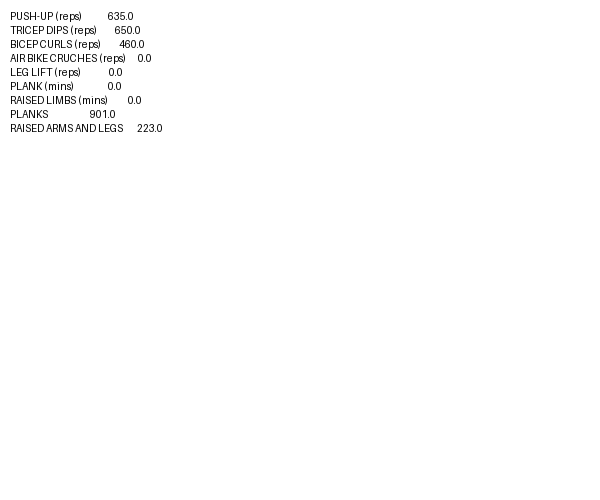
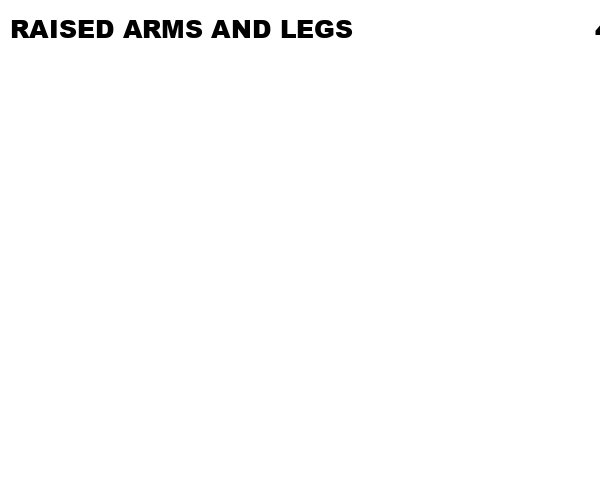
new commit_

diff --git a/zeal fitness club report generator/main/main_x.py b/zeal fitness club report generator/main/main_x.py
@@ -1,41 +1,42 @@
-from openpyxl import load_workbook
 from PIL import Image, ImageDraw, ImageFont
+import pandas as pd
 
-# Load the Excel workbook
-workbook = load_workbook('april.xlsx')
+xls = pd.ExcelFile('specimen.xlsx')
 
-# Select the active worksheet
-worksheet = workbook['Actually']
+df = xls.sheet_names
 
-# Load the font you want to use
-font = ImageFont.load_default()
+for i in range(len(df)):     
+    sheet = pd.read_excel(xls, sheet_name=df[i])  
+    
+    row = sheet.iloc[31, 4:].to_string(index=False)
+    col = sheet.columns
+    
+    # a = col[4:]
+    a = []
 
-# Create an empty image
-img = Image.new('RGB', (600, 500), color = (255, 255, 255))
+    c = zip(a.append(col[4:]), row)   
+    
+    # Load the font you want to use
+    font = ImageFont.truetype('arial.ttf', 25)
 
-# Initialize ImageDraw object
-draw = ImageDraw.Draw(img)
+    # Create an empty image
+    img = Image.new('RGB', (600, 500), color = (255, 255, 255))
 
-# Set initial position for text drawing
-x = 10
-y = 10
+    # Initialize ImageDraw object
+    # draw = ImageDraw.Draw(img)
+    
+    # Set initial position for text drawing
+    x = 10
+    y = 10
 
-text = workbook.active
+    for s, t in c:
+        text = (f"{s:<20}{t:>20}")
+        print(len(s), len(t))
 
-# draw.text((x, y), text, fill=(0, 0, 0), font=font)
+    
+    # draw.text((x, y), text, fill=(0, 0, 0), font=font)
 
-# # Loop through rows and columns to extract text and draw onto image
-# for row in worksheet.iter_rows():  
-#     for cell in row:
-#         # Extract text from cell
-#         text = str(cell.value)
-#         # Draw text onto image
-#         draw.text((x, y), text, fill=(0, 0, 0), font=font)
-#         # Move to the next position
-#         y += 20  # Adjust this value based on your font size or layout
-#     y += 10  # Add some space between rows
+    # Save the image
+    # img.save(df[i]+'.png')
 
-# Save the image
-img.save('output_image_new.png')
-
-print("Image created successfully!")
+    # print("Image created successfully!")  

diff --git a/zeal fitness club report generator/main/main.py b/zeal fitness club report generator/main/main.py
@@ -1,39 +1,43 @@
 from PIL import Image, ImageDraw, ImageFont
 import pandas as pd
 
-sheet = pd.read_excel('april.xlsx', sheet_name='Actually')
+xls = pd.ExcelFile('specimen.xlsx')
 
-text = sheet.iloc[31, [4, 5, 6]]
+df = xls.sheet_names
 
-# Load the font you want to use
-font = ImageFont.load_default()
+for i in range(len(df)):     
+    sheet = pd.read_excel(xls, sheet_name=df[i])  
+    head_rows = sheet.columns
 
-# Create an empty image
-img = Image.new('RGB', (600, 500), color = (255, 255, 255))
+    row = sheet.iloc[31, 4:].to_string(index=False)
+    col = head_rows[4:]
 
-# Initialize ImageDraw object
-draw = ImageDraw.Draw(img)
+    a = col
+    b = row       
+    c = zip(a, b)
+    
+    # Load the font you want to use
+    font = ImageFont.truetype('arial.ttf', 25)
 
-# Set initial position for text drawing
-x = 10
-y = 10
+    # Create an empty image
+    img = Image.new('RGB', (600, 500), color = (255, 255, 255))
 
-draw.text((x, y), text.to_string(), fill=(0, 0, 0), font=font)
+    # Initialize ImageDraw object
+    draw = ImageDraw.Draw(img)
+    
+    # Set initial position for text drawing
+    x = 10
+    y = 10
 
-# Save the image
-img.save('output_image_new.png')
+    for s, t in c:
+        text = (f"{s:<25}{t:>25}")
+        print(text)
+    
+    
+    draw.text((x, y), text, fill=(0, 0, 0), font=font)
 
-print("Image created successfully!")
+    # Save the image
+    img.save(df[i]+'.png')
 
-
-
-
-
-
-
-
-
-
-# text = sheet.iloc[31, [4, 5, 6]]
-
-# print(text.to_string())
+    print("Image created successfully!")
+    print(" ")  

diff --git a/zeal fitness club report generator/main/main_y.py b/zeal fitness club report generator/main/main_y.py
@@ -5,39 +5,38 @@ xls = pd.ExcelFile('specimen.xlsx')
 
 df = xls.sheet_names
 
-for i in range(len(df)): 
-    sheet = pd.read_excel(xls, sheet_name=df[i])
-    text = sheet.iloc[31, 4:]
+for i in range(len(df)):     
+    sheet = pd.read_excel(xls, sheet_name=df[i])  
+    
+    row = sheet.iloc[31, 4:].to_string(index=False)
+    col = sheet.columns
+    
+    # a = col[4:]
+    a = []
+
+    c = zip(a.append(col[4:]), row)   
     
     # Load the font you want to use
-    font = ImageFont.load_default()
+    font = ImageFont.truetype('arial.ttf', 25)
 
     # Create an empty image
     img = Image.new('RGB', (600, 500), color = (255, 255, 255))
 
     # Initialize ImageDraw object
-    draw = ImageDraw.Draw(img)
+    # draw = ImageDraw.Draw(img)
     
     # Set initial position for text drawing
     x = 10
     y = 10
 
-    draw.text((x, y), text.to_string(), fill=(0, 0, 0), font=font)
+    for s, t in c:
+        text = (f"{s:<20}{t:>20}")
+        print(len(s), len(t))
+
+    
+    # draw.text((x, y), text, fill=(0, 0, 0), font=font)
 
     # Save the image
-    img.save(df[i]+'.png')
+    # img.save(df[i]+'.png')
 
-    print("Image created successfully!")  
-
-
-
-
-
-
-
-
-
-
-# text = sheet.iloc[31, [4, 5, 6]]
-
-# print(text.to_string())
+    # print("Image created successfully!")  
